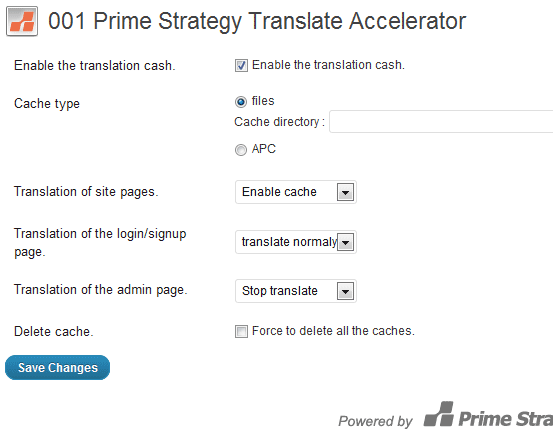
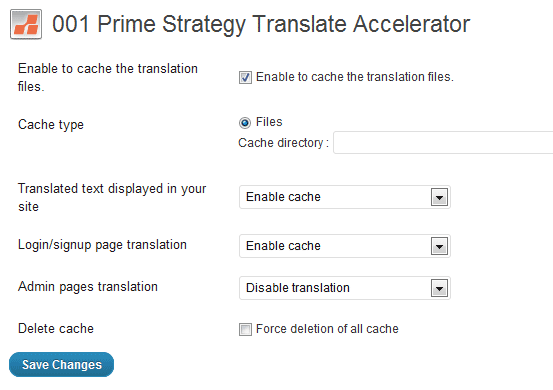
update to 1.0.7
git-svn-id: https://plugins.svn.wordpress.org/001-prime-strategy-translate-accelerator/trunk@435537 b8457f37-d9ea-0310-8a92-e5e31aec5664

diff --git a/001-prime-strategy-translate-accelerator.php b/001-prime-strategy-translate-accelerator.php
@@ -5,8 +5,8 @@
 /*
 Plugin Name: 001 Prime Strategy Translate Accelerator
 Plugin URI: http://www.web-strategy.jp/wp_plugin/translate_accelerator/
-Description: This plugin makes the translation cache files, and shortens the execution time to display of your WordPress site.
-Version: 1.0.6
+Description: This plugin makes the translation cache files, and shortens the execution time to display your WordPress site.
+Version: 1.0.7
 Author: Prime Strategy Co.,Ltd
 Author URI: http://www.prime-strategy.co.jp/
 License: GPLv2 or later
@@ -25,7 +25,7 @@ class Prime_Strategy_Translate_Accelerator {
 var $setting;
 var $default;
 var $file_cache_dir;
-var $version = '1.0.6';
+var $version = '1.0.7';
 
 function Prime_Strategy_Translate_Accelerator() {
 	$this->__construct();
@@ -232,11 +232,11 @@ function setting_page() {
 
 		<table class="form-table">
 			<tr>
-				<th><?php _e( 'Enable the translation cache.', 'prime-strategy-transelate-accelerator' ); ?></th>
+				<th><?php _e( 'Enable to cache the translation files.', 'prime-strategy-transelate-accelerator' ); ?></th>
 				<td>
 					<label for="activate">
 						<input type="checkbox" name="activate" id="activate" value="1"<?php echo $s['activate'] == 1 ? ' checked="checked"' : ''; ?> />
-						<?php _e( 'Enable the translation cache.', 'prime-strategy-transelate-accelerator' ); ?>
+						<?php _e( 'Enable to cache the translation files.', 'prime-strategy-transelate-accelerator' ); ?>
 					</label>
 				</td>
 			</tr>
@@ -252,41 +252,41 @@ function setting_page() {
 				</td>
 			</tr>
 			<tr>
-				<th><?php _e( 'Translation of site pages.', 'prime-strategy-transelate-accelerator' ); ?></th>
+				<th><?php _e( 'Translated text displayed in your site', 'prime-strategy-transelate-accelerator' ); ?></th>
 				<td>
 					<select name="frontend">
 						<option value="cache"<?php echo $s['frontend'] == 'cache' ? ' selected="selected"' : ''; ?>><?php _e( 'Enable cache', 'prime-strategy-transelate-accelerator' ); ?></option>
-						<option value="cutoff"<?php echo $s['frontend'] == 'cutoff' ? ' selected="selected"' : ''; ?>><?php _e( 'Stop translate', 'prime-strategy-transelate-accelerator' ); ?></option>
-						<option value="defalut"<?php echo $s['frontend'] == 'defalut' ? ' selected="selected"' : ''; ?>><?php _e( 'Translate normaly', 'prime-strategy-transelate-accelerator' ); ?></option>
+						<option value="cutoff"<?php echo $s['frontend'] == 'cutoff' ? ' selected="selected"' : ''; ?>><?php _e( 'Disable translation', 'prime-strategy-transelate-accelerator' ); ?></option>
+						<option value="defalut"<?php echo $s['frontend'] == 'defalut' ? ' selected="selected"' : ''; ?>><?php _e( 'Use language file/s for translation', 'prime-strategy-transelate-accelerator' ); ?></option>
 					</select>
 				</td>
 			</tr>
 			<tr>
-				<th><?php _e( 'Translation of the login/signup page.', 'prime-strategy-transelate-accelerator' ); ?></th>
+				<th><?php _e( 'Login/signup page translation', 'prime-strategy-transelate-accelerator' ); ?></th>
 				<td>
 					<select name="wp-login">
 						<option value="cache"<?php echo $s['wp-login'] == 'cache' ? ' selected="selected"' : ''; ?>><?php _e( 'Enable cache', 'prime-strategy-transelate-accelerator' ); ?></option>
-						<option value="cutoff"<?php echo $s['wp-login'] == 'cutoff' ? ' selected="selected"' : ''; ?>><?php _e( 'Stop translate', 'prime-strategy-transelate-accelerator' ); ?></option>
-						<option value="defalut"<?php echo $s['wp-login'] == 'defalut' ? ' selected="selected"' : ''; ?>><?php _e( 'Translate normaly', 'prime-strategy-transelate-accelerator' ); ?></option>
+						<option value="cutoff"<?php echo $s['wp-login'] == 'cutoff' ? ' selected="selected"' : ''; ?>><?php _e( 'Disable translation', 'prime-strategy-transelate-accelerator' ); ?></option>
+						<option value="defalut"<?php echo $s['wp-login'] == 'defalut' ? ' selected="selected"' : ''; ?>><?php _e( 'Use language file/s for translation', 'prime-strategy-transelate-accelerator' ); ?></option>
 					</select>
 				</td>
 			</tr>
 			<tr>
-				<th><?php _e( 'Translation of the admin page.', 'prime-strategy-transelate-accelerator' ); ?></th>
+				<th><?php _e( 'Admin pages translation', 'prime-strategy-transelate-accelerator' ); ?></th>
 				<td>
 					<select name="admin">
 						<option value="cache"<?php echo $s['admin'] == 'cache' ? ' selected="selected"' : ''; ?>><?php _e( 'Enable cache', 'prime-strategy-transelate-accelerator' ); ?></option>
-						<option value="cutoff"<?php echo $s['admin'] == 'cutoff' ? ' selected="selected"' : ''; ?>><?php _e( 'Stop translate', 'prime-strategy-transelate-accelerator' ); ?></option>
-						<option value="defalut"<?php echo $s['admin'] == 'defalut' ? ' selected="selected"' : ''; ?>><?php _e( 'Translate normaly', 'prime-strategy-transelate-accelerator' ); ?></option>
+						<option value="cutoff"<?php echo $s['admin'] == 'cutoff' ? ' selected="selected"' : ''; ?>><?php _e( 'Disable translation', 'prime-strategy-transelate-accelerator' ); ?></option>
+						<option value="defalut"<?php echo $s['admin'] == 'defalut' ? ' selected="selected"' : ''; ?>><?php _e( 'Use language file/s for translation', 'prime-strategy-transelate-accelerator' ); ?></option>
 					</select>
 				</td>
 			</tr>
 			<tr>
-				<th><?php _e( 'Delete cache.', 'prime-strategy-transelate-accelerator' ); ?></th>
+				<th><?php _e( 'Delete cache', 'prime-strategy-transelate-accelerator' ); ?></th>
 				<td>
 					<label for="cache_force_delete">
 						<input type="checkbox" name="cache_force_delete" id="cache_force_delete" value="1" />
-						<?php _e( 'Force to delete all the cache.', 'prime-strategy-transelate-accelerator' ); ?>
+						<?php _e( 'Force deletion of all cache', 'prime-strategy-transelate-accelerator' ); ?>
 					</label>
 				</td>
 			</tr>
